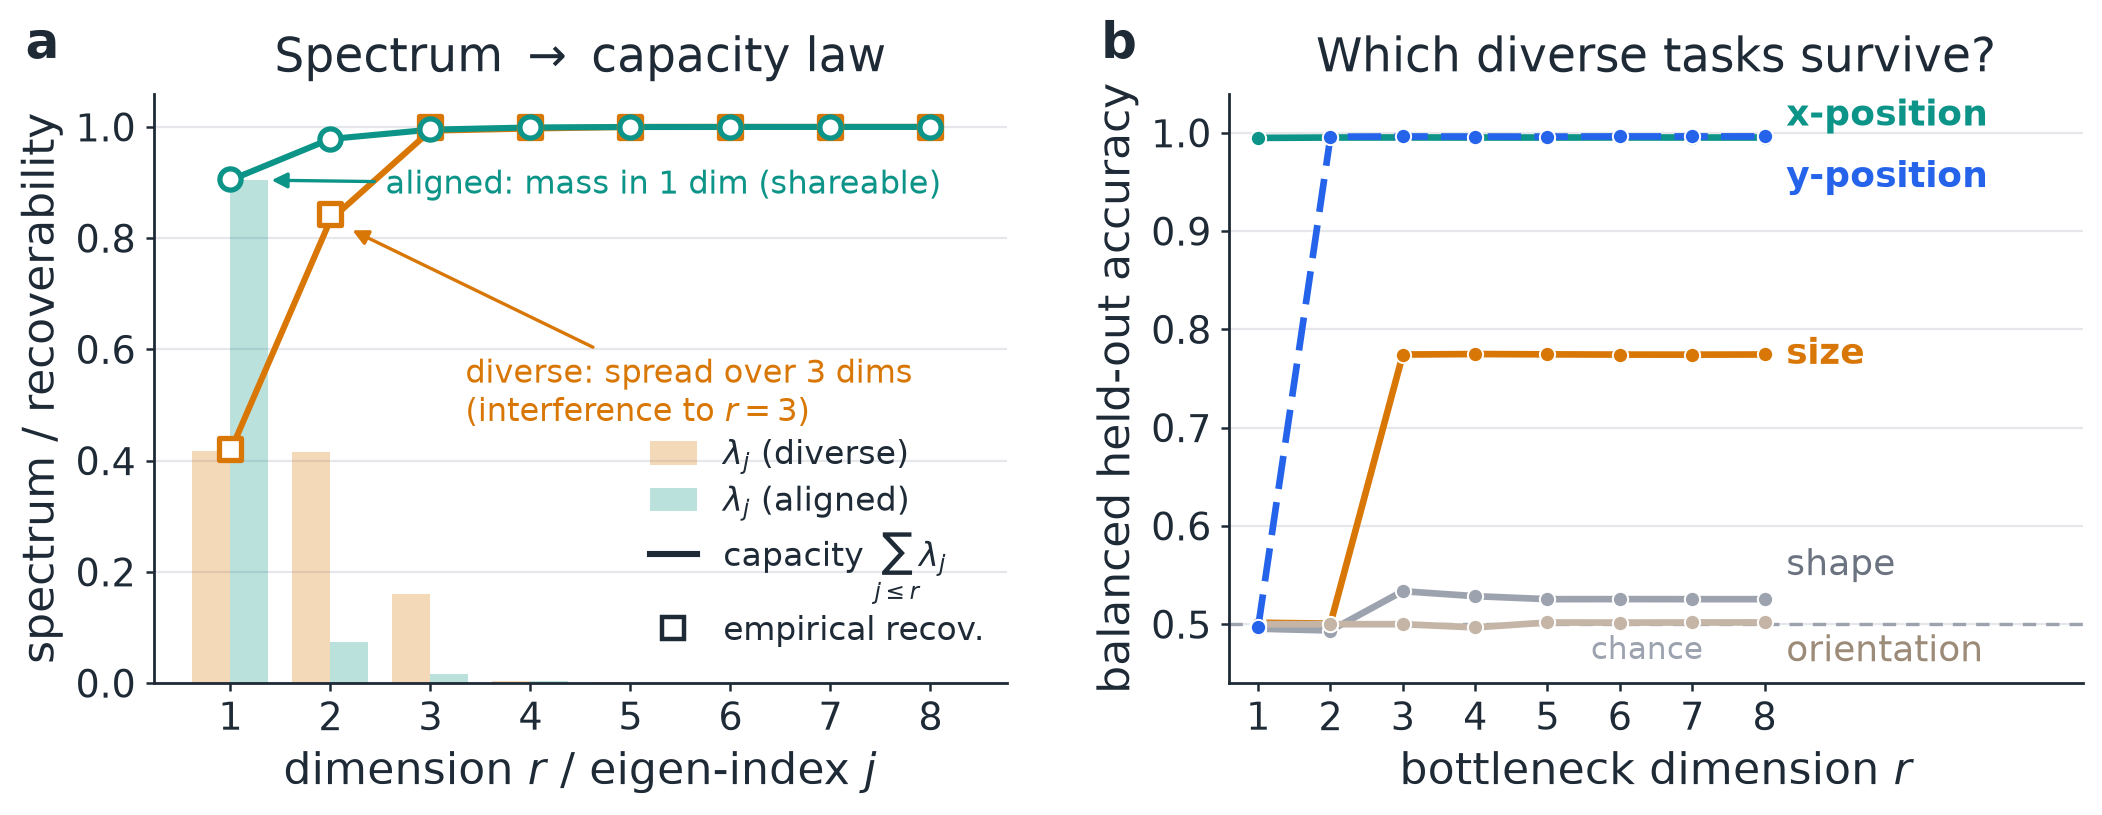
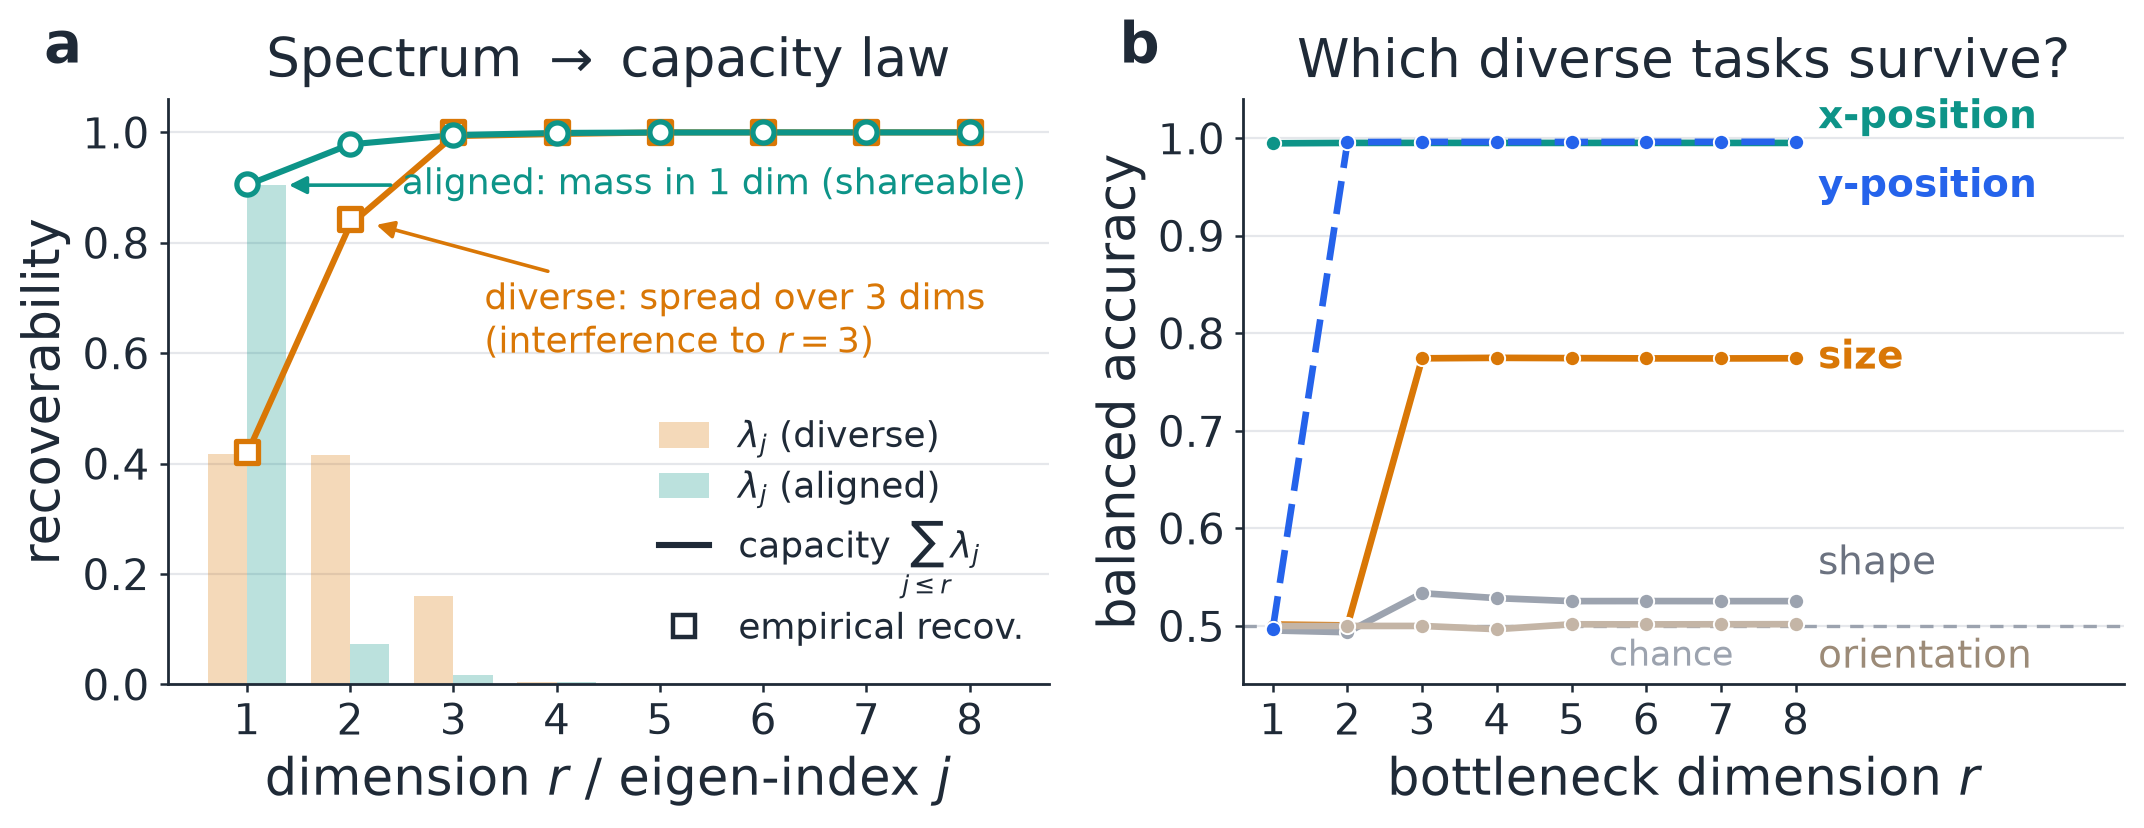
RO2 v2 + 3D box: raise fonts further, shorten axis labels, lift diverse annotation
- plot_ro2_fig2: bump all fonts ~15%, shorten y-axis labels to one word each
 (recoverability / balanced accuracy) to make room, and move the diverse
 annotation up into clear space above the amber curve; re-rendered
- box_viz.plot_box_3d: larger axis-arrow labels (12->17), color-key legend
 (11->14.5) and marker size, and predicted-box legend (9->13) so the 3D
 hyper-rectangle figures read at reduced insertion width (re-render from
 checkpoints on the server)

diff --git a/analysis/plot_ro2_fig2.py b/analysis/plot_ro2_fig2.py
@@ -39,14 +39,15 @@ DISP = {"posX": "x-position", "posY": "y-position", "scale": "size",
 LBL = {"posX": COL["posX"], "posY": COL["posY"], "scale": COL["scale"],
        "shape": "#6B7280", "orientation": "#9C8B78"}
 
-# Fonts sized for proposal insertion at reduced width: everything ~1.5x the
-# reference mock so labels stay readable in a wrapfigure.
+# Fonts sized for proposal insertion at reduced width: everything ~1.7x the
+# reference mock so labels stay readable in a wrapfigure. y-axis labels are kept
+# short (one word each) so the bigger tick/label fonts don't crowd the axes.
 mpl.rcParams.update({
-    "font.family": "DejaVu Sans", "font.size": 15, "axes.edgecolor": INK,
-    "axes.linewidth": 1.0, "axes.titlesize": 17, "axes.labelsize": 16,
+    "font.family": "DejaVu Sans", "font.size": 16.5, "axes.edgecolor": INK,
+    "axes.linewidth": 1.0, "axes.titlesize": 19, "axes.labelsize": 18.5,
     "xtick.color": INK, "ytick.color": INK, "text.color": INK,
-    "axes.labelcolor": INK, "xtick.labelsize": 13.5, "ytick.labelsize": 13.5,
-    "legend.fontsize": 12, "figure.dpi": 150})
+    "axes.labelcolor": INK, "xtick.labelsize": 15, "ytick.labelsize": 15,
+    "legend.fontsize": 13, "figure.dpi": 150})
 
 
 def clean(ax):
@@ -80,9 +81,9 @@ def main():
     task_names = [t[0] for t in fam["diverse"]["tasks"]]
 
     fig, axes = plt.subplots(1, 2, figsize=(10.6, 4.4))
-    fig.subplots_adjust(left=0.085, right=0.995, top=0.82, bottom=0.15,
-                        wspace=0.26)
-    panel_lbl = dict(fontsize=18, fontweight="bold", va="bottom", ha="left")
+    fig.subplots_adjust(left=0.072, right=0.995, top=0.82, bottom=0.155,
+                        wspace=0.22)
+    panel_lbl = dict(fontsize=20, fontweight="bold", va="bottom", ha="left")
 
     # ---------- Panel a : spectrum bars + cumulative capacity + empirical ----
     ax = axes[0]
@@ -98,7 +99,7 @@ def main():
 
     ax.set_xticks(r.astype(int))
     ax.set_xlabel("dimension $r$ / eigen-index $j$")
-    ax.set_ylabel("spectrum / recoverability")
+    ax.set_ylabel("recoverability")
     ax.set_ylim(0, 1.06)
     ax.set_title(r"Spectrum $\to$ capacity law", loc="center", pad=8)
     ax.yaxis.grid(True, color=GRID, lw=0.8)
@@ -118,21 +119,21 @@ def main():
     # annotate the contrast (anchored to real values, offsets tuned to avoid
     # the legend and each other)
     ax.annotate("aligned: mass in 1 dim (shareable)",
-                xy=(1.30, a_cap[0]), xytext=(2.55, 0.895), fontsize=11.5,
+                xy=(1.30, a_cap[0]), xytext=(2.5, 0.905), fontsize=13,
                 color=TEAL, ha="left", va="center",
-                arrowprops=dict(arrowstyle="-|>", color=TEAL, lw=1.2,
+                arrowprops=dict(arrowstyle="-|>", color=TEAL, lw=1.3,
                                 shrinkB=4))
     ax.annotate("diverse: spread over 3 dims\n(interference to $r{=}3$)",
-                xy=(2.12, d_cap[1] - 0.01), xytext=(3.35, 0.47), fontsize=11.5,
+                xy=(2.15, d_cap[1] + 0.005), xytext=(3.3, 0.60), fontsize=13,
                 color=AMBER, ha="left",
-                arrowprops=dict(arrowstyle="-|>", color=AMBER, lw=1.2,
+                arrowprops=dict(arrowstyle="-|>", color=AMBER, lw=1.3,
                                 shrinkB=4))
-    ax.text(-0.15, 1.04, "a", transform=ax.transAxes, **panel_lbl)
+    ax.text(-0.14, 1.04, "a", transform=ax.transAxes, **panel_lbl)
 
     # ---------- Panel b : which diverse tasks survive ----------
     ax = axes[1]
     ax.axhline(0.5, color=MUTE, lw=1.2, ls=(0, (4, 3)), zorder=1)
-    ax.text(5.6, 0.489, "chance", fontsize=11, color=MUTE, va="top",
+    ax.text(5.5, 0.487, "chance", fontsize=12.5, color=MUTE, va="top",
             ha="left")
     for j, name in enumerate(task_names):
         # x/y-position coincide for r>=2: dash y-position so both stay visible
@@ -143,27 +144,27 @@ def main():
     ax.set_xlim(0.6, 12.4)
     ax.set_ylim(0.44, 1.04)
     ax.set_xlabel("bottleneck dimension $r$")
-    ax.set_ylabel("balanced held-out accuracy")
+    ax.set_ylabel("balanced accuracy")
     ax.set_title("Which diverse tasks survive?", loc="center", pad=8)
     ax.yaxis.grid(True, color=GRID, lw=0.8)
     ax.set_axisbelow(True)
     clean(ax)
 
     # direct labels, stacked where curves end at (nearly) the same value
-    lab = dict(fontsize=13, va="center", ha="left")
+    lab = dict(fontsize=14, va="center", ha="left")
     ends = {n: per_task[-1, j] for j, n in enumerate(task_names)}
     ypos = {  # hand-staggered so nothing collides at the larger font
-        "posX": min(ends["posX"], 0.985) + 0.032,   # above the coincident pair
-        "posY": ends["posY"] - 0.042,               # below it
+        "posX": min(ends["posX"], 0.985) + 0.036,   # above the coincident pair
+        "posY": ends["posY"] - 0.046,               # below it
         "scale": ends["scale"],
-        "shape": ends["shape"] + 0.034,
-        "orientation": ends["orientation"] - 0.030,
+        "shape": ends["shape"] + 0.038,
+        "orientation": ends["orientation"] - 0.034,
     }
     for name in task_names:
         bold = ends[name] > 0.6
         ax.text(8.3, ypos[name], DISP[name], color=LBL[name],
                 fontweight="bold" if bold else "normal", **lab)
-    ax.text(-0.15, 1.04, "b", transform=ax.transAxes, **panel_lbl)
+    ax.text(-0.14, 1.04, "b", transform=ax.transAxes, **panel_lbl)
 
     os.makedirs(os.path.dirname(args.out) or ".", exist_ok=True)
     fig.savefig(args.out + ".pdf", bbox_inches="tight")

diff --git a/analysis/box_viz.py b/analysis/box_viz.py
@@ -287,7 +287,7 @@ def plot_box_3d(coords, box, granular_task, triple_names, save_path,
                   linewidth=1.8, arrow_length_ratio=0.1)
         pos, ha, va = labelspec[k]
         ax.text(pos[0], pos[1], pos[2], alabels[k],
-                fontsize=12, fontweight="bold", ha=ha, va=va)
+                fontsize=17, fontweight="bold", ha=ha, va=va)
 
     # Zoom so the box fills the frame; drop the axis frame entirely so the figure
     # crops tight to the box (no empty 3D floor pane / whitespace).
@@ -304,7 +304,7 @@ def plot_box_3d(coords, box, granular_task, triple_names, save_path,
     from matplotlib.lines import Line2D
 
     def _key(marker, fc, ec, lw, label):
-        return Line2D([0], [0], marker=marker, color="none", markersize=12,
+        return Line2D([0], [0], marker=marker, color="none", markersize=14,
                       markerfacecolor=fc, markeredgecolor=ec, markeredgewidth=lw,
                       label=label)
     def _hdr(label):  # column header: blank handle, just the channel name
@@ -323,15 +323,15 @@ def plot_box_3d(coords, box, granular_task, triple_names, save_path,
         _key("o", "white", "0.45", 2.2, llab[2][1]),
     ]
     fig.legend(key, [h.get_label() for h in key], loc="lower center", ncol=3,
-               fontsize=11, framealpha=0.9, handletextpad=0.5,
-               columnspacing=1.6, labelspacing=0.55, borderpad=0.6,
+               fontsize=14.5, framealpha=0.9, handletextpad=0.5,
+               columnspacing=1.3, labelspacing=0.5, borderpad=0.55,
                bbox_to_anchor=(0.5, 0.0))
     if has_pred:
         from matplotlib.lines import Line2D
         box_handles = [Line2D([0], [0], color="black", lw=1.8),
                        Line2D([0], [0], color=pred_color, lw=1.8, linestyle=(0, (5, 4)))]
         ax.legend(box_handles, ["observed", r"predicted $\sqrt{B_t}$"],
-                  loc="upper right", fontsize=9, framealpha=0.9)
+                  loc="upper right", fontsize=13, framealpha=0.9)
     for pth in (save_path if isinstance(save_path, (list, tuple)) else [save_path]):
         fig.savefig(pth, bbox_inches="tight", pad_inches=0.02)
     plt.close(fig)
